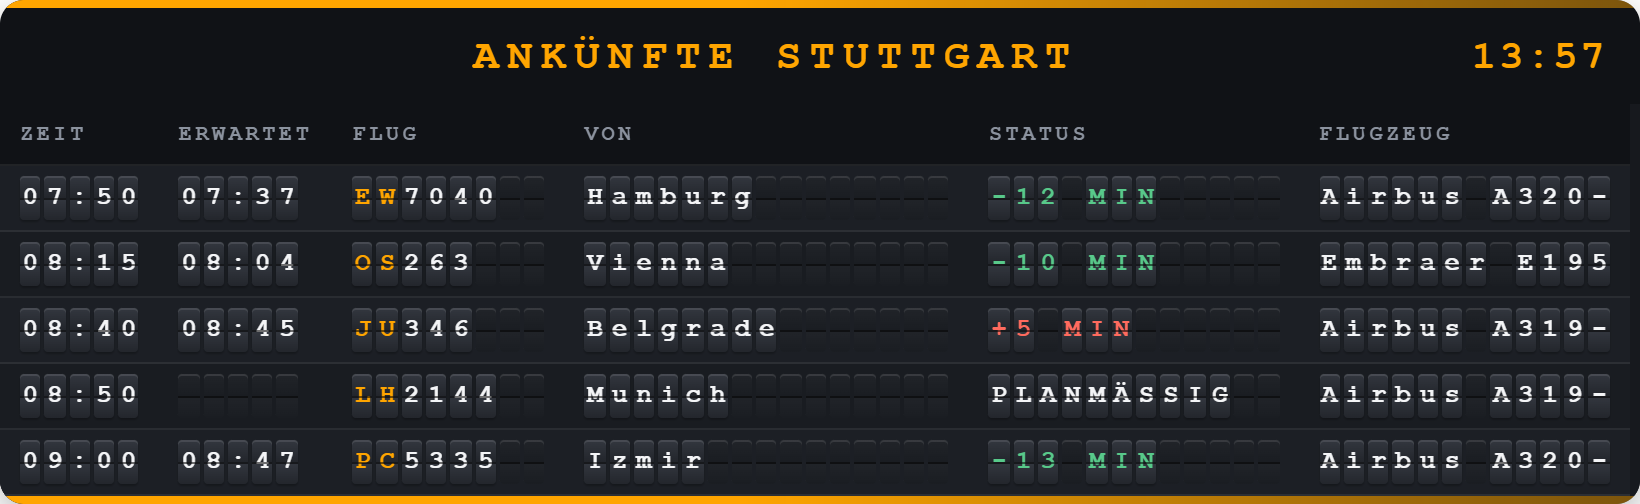
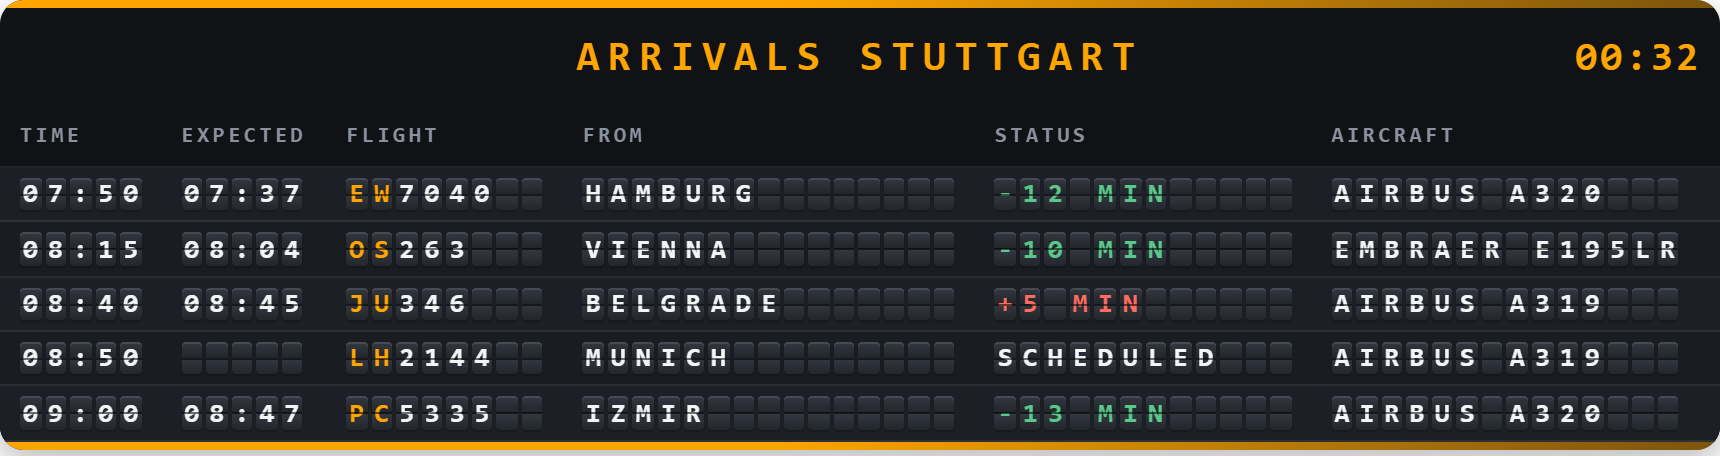
Prepare 0.6.0-beta.1 and refresh the screenshots
CARD_VERSION -> 0.6.0-beta.1, CHANGELOG entry cut. The README images are
regenerated from the redesigned board, so they show the new flap
proportions, uppercase text and the bundled typeface rather than the old
look.

diff --git a/dist/flightradar24-splitflap-card.js b/dist/flightradar24-splitflap-card.js
@@ -5,7 +5,7 @@
  *
  * Kept in sync with the release tag; see CLAUDE.md.
  */
-const CARD_VERSION = '0.5.0';
+const CARD_VERSION = '0.6.0-beta.1';
 
 console.info(
   `%c FLIGHTRADAR24-SPLITFLAP-CARD %c ${CARD_VERSION} `,

diff --git a/CHANGELOG.md b/CHANGELOG.md
@@ -7,6 +7,8 @@ and this project adheres to [Semantic Versioning](https://semver.org/).
 
 ## [Unreleased]
 
+## [0.6.0-beta.1] - 2026-08-15
+
 ### Changed
 - The board now reads as a single physical object: printed and blank flaps are
   styled identically, the fold line runs through the character rather than
@@ -233,7 +235,8 @@ entry below for what's actually in this release.
 - Event-based updates (no polling)
 - Render performance optimised through selective updates
 
-[Unreleased]: https://github.com/GpsM2/flightradar24-splitflap-card/compare/0.5.0...HEAD
+[Unreleased]: https://github.com/GpsM2/flightradar24-splitflap-card/compare/0.6.0-beta.1...HEAD
+[0.6.0-beta.1]: https://github.com/GpsM2/flightradar24-splitflap-card/compare/0.5.0...0.6.0-beta.1
 [0.5.0]: https://github.com/GpsM2/flightradar24-splitflap-card/compare/0.5.0-beta.2...0.5.0
 [0.5.0-beta.2]: https://github.com/GpsM2/flightradar24-splitflap-card/compare/0.5.0-beta.1...0.5.0-beta.2
 [0.5.0-beta.1]: https://github.com/GpsM2/flightradar24-splitflap-card/compare/0.4.1...0.5.0-beta.1
